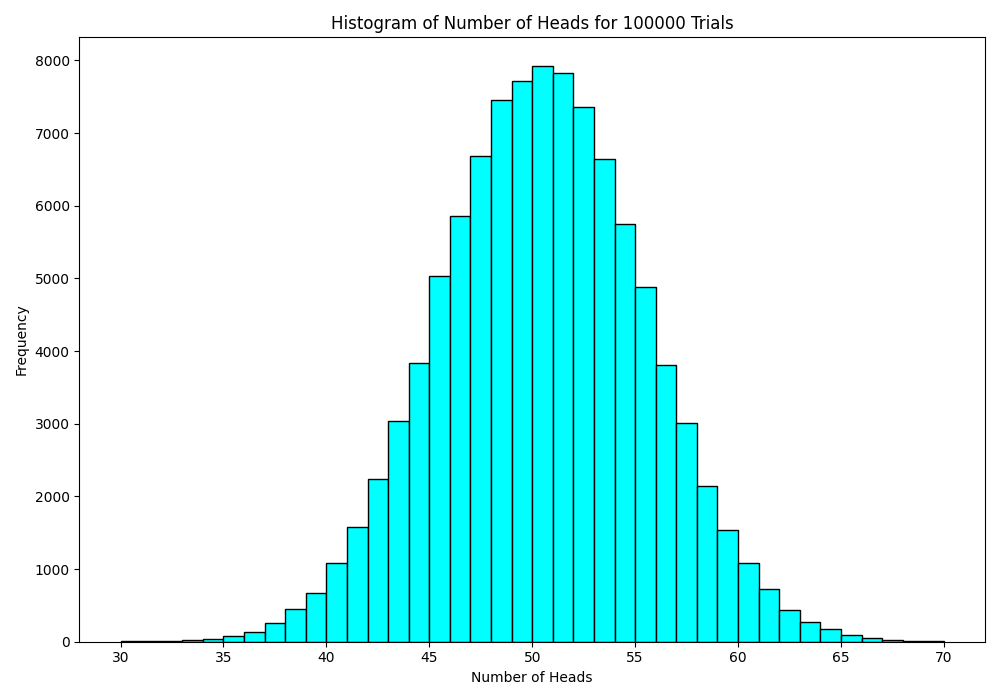
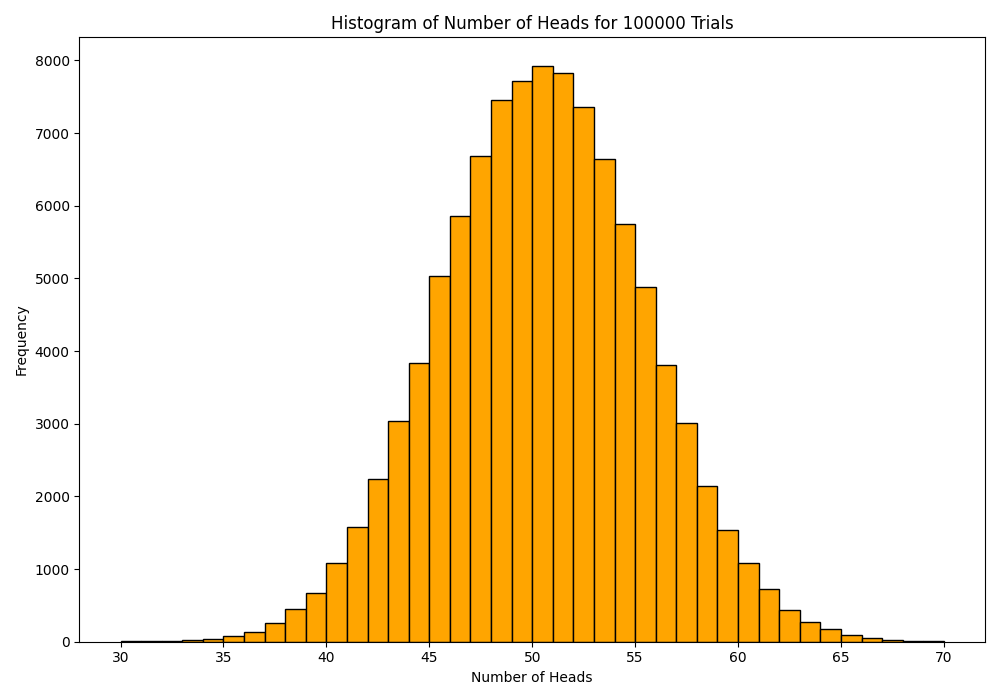
Added different bins for different Trials also added range of histogram

Changed region(s): [[0.217, 0.09, 0.868, 0.93]]

diff --git a/Ambuj/part1A.py b/Ambuj/part1A.py
@@ -1,5 +1,4 @@
 from matplotlib import pyplot as plt
-import numpy as np
 import random
 
 random.seed(45)
@@ -39,7 +38,7 @@ def plot_hist(trial):
     fig, axs = plt.subplots(figsize=(10, 7), tight_layout=True)
 
     ## Write your code here
-    plt.hist(trial, bins=40 if len(trial) > 1000 else 20 if len(trial) > 100 else 10, range=(30, 70), color='cyan',
+    plt.hist(trial, bins=40 if len(trial) > 1000 else 20 if len(trial) > 100 else 10, range=(30, 70), color='orange',
              edgecolor='black')
     axs.set_title(f'Histogram of Number of Heads for {num_trials} Trials')
     axs.set_xlabel('Number of Heads')
